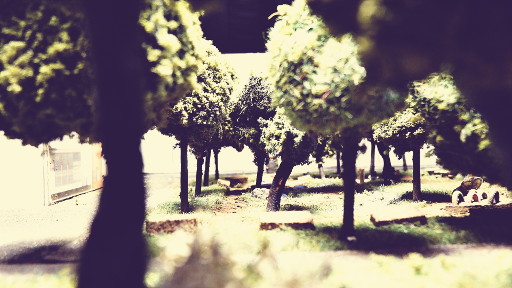
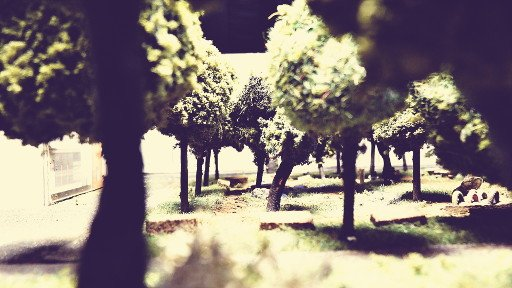
Compress cover images

diff --git a/_projects/5-flow2code-schwangere.md b/_projects/5-flow2code-schwangere.md
@@ -2,7 +2,7 @@
 company: flow2code.com
 title: Mockup aplikacji mobilnej dla niemieckich szpitali
 logo: ../assets/projects/flow2code/schwangere/1.png
-cover: ../assets/projects/flow2code/schwangere/cover.png
+cover: ../assets/projects/flow2code/schwangere/cover.jpg
 flex-basis: 13rem
 permalink: /projects/flow2code-schwangere
 layout: project

diff --git a/_projects/6-flow2code-scandishop.md b/_projects/6-flow2code-scandishop.md
@@ -2,7 +2,7 @@
 company: flow2code.com
 title: Mockup CMS dla ScandiShop.pl
 logo: ../assets/projects/flow2code/scandishop/1.png
-cover: ../assets/projects/flow2code/scandishop/1.png
+cover: ../assets/projects/flow2code/scandishop/cover.jpg
 flex-basis: 12rem
 permalink: /projects/flow2code-scandishop
 layout: project

diff --git a/_projects/4-flow2code-sunplus.md b/_projects/4-flow2code-sunplus.md
@@ -2,7 +2,7 @@
 company: flow2code.com
 title: Mockup aplikacji dla firmy Sun+
 logo: ../assets/projects/flow2code/sunplus/1.png
-cover: ../assets/projects/flow2code/sunplus/1.png
+cover: ../assets/projects/flow2code/sunplus/cover.jpg
 flex-basis: 15rem
 permalink: /projects/flow2code-sunplus
 layout: project

diff --git a/_projects/7-flow2code-bookfood.md b/_projects/7-flow2code-bookfood.md
@@ -2,7 +2,7 @@
 company: flow2code.com
 title: Mockup aplikacji BookFood
 logo: ../assets/projects/flow2code/bookfood/1.png
-cover: ../assets/projects/flow2code/bookfood/2.png
+cover: ../assets/projects/flow2code/bookfood/cover.jpg
 flex-basis: 12rem
 permalink: /projects/flow2code-bookfood
 layout: project

diff --git a/_projects/4-university.md b/_projects/4-university.md
@@ -2,7 +2,7 @@
 company: Uczelnia
 title: Zbiór rysunków z moich studiów
 logo: ../assets/projects/university/logo.png
-cover: ../assets/projects/university/3.jpg
+cover: ../assets/projects/university/cover.jpg
 flex-basis: 10rem
 permalink: /projects/university
 layout: project

diff --git a/_projects/0-stagelink-ticket.md b/_projects/0-stagelink-ticket.md
@@ -1,7 +1,7 @@
 ---
 company: Stagelink.com
 title: Mockup biletu
-cover: ../assets/projects/stagelink/ticket/cover.png
+cover: ../assets/projects/stagelink/ticket/cover.jpg
 flex-basis: 14rem
 permalink: /projects/stagelink-ticket
 layout: project
